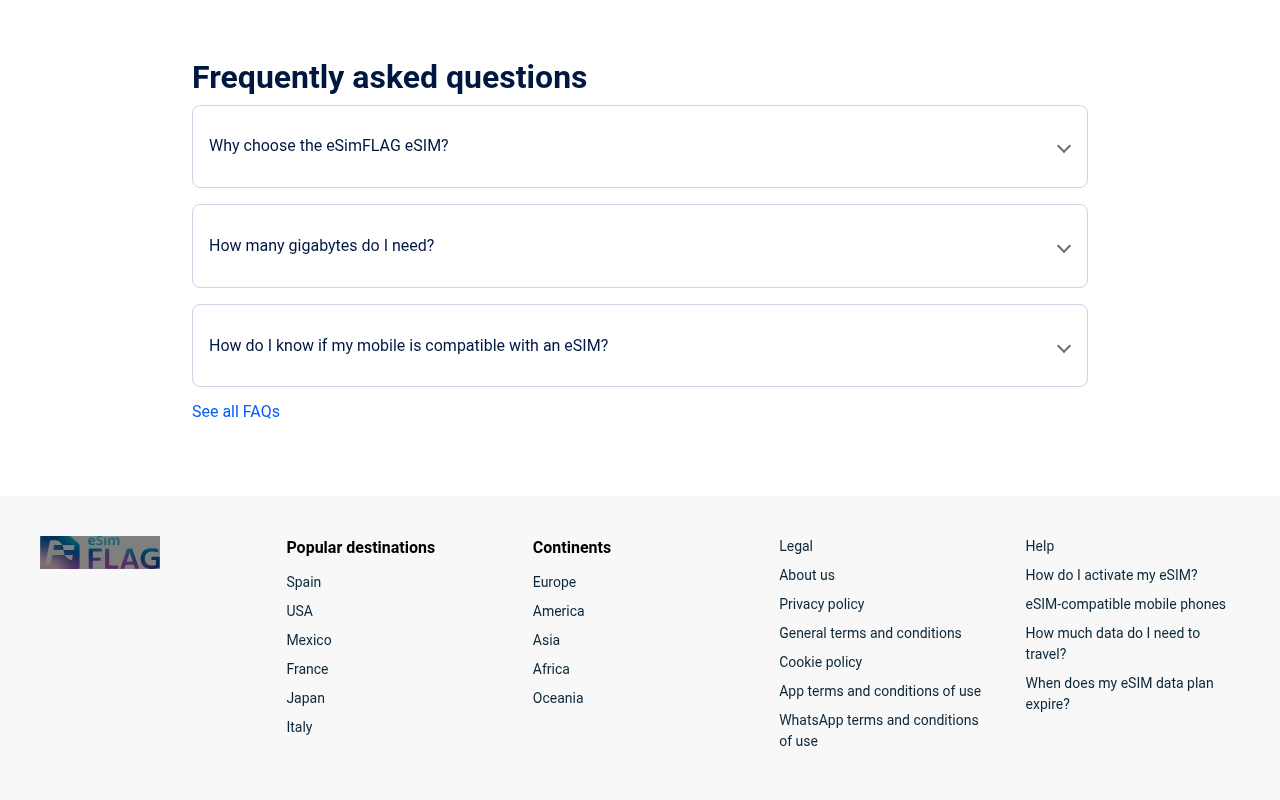
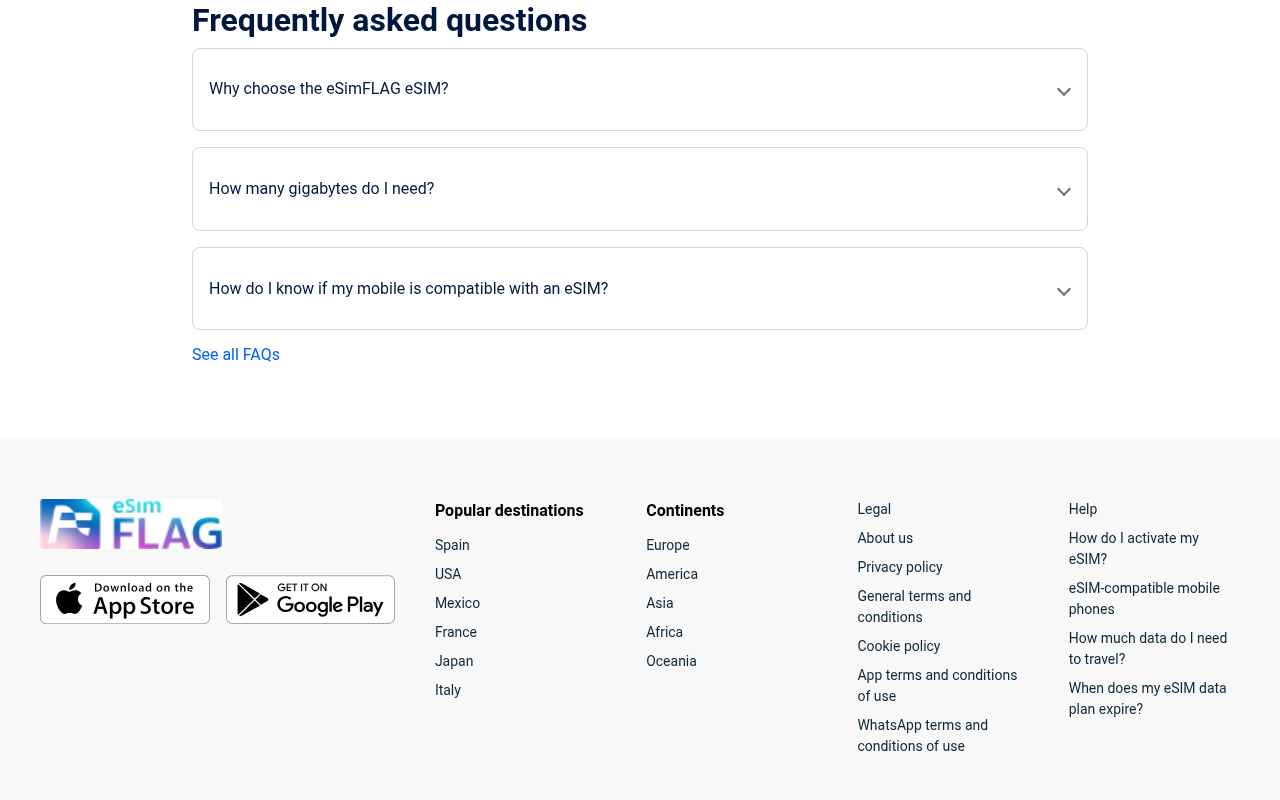
Update 5 files
Automated migration updates generated by Experience Modernization Agent.

Changed files (5):
- footer-updated.png
- footer.html
- footer.md
- footer.plain.html
- header-updated.png

diff --git a/footer.html b/footer.html
@@ -14,13 +14,7 @@
 <body>
 <header></header>
 <main>
-<div>
-<picture><source srcset="/icons/esimflag-logo.png"><source srcset="/icons/esimflag-logo.png" media="(min-width: 600px)"><img src="/icons/esimflag-logo.png" alt="eSimFLAG" loading="lazy"></picture>
-<div class="app-badges">
-<a href="https://apps.apple.com/app/esimflag/id6467063685" target="_blank" rel="noopener noreferrer"><img src="https://www.esimflag.com/assets/app-store-CAMAmrMB.svg" alt="Download on the App Store" loading="lazy"></a>
-<a href="https://play.google.com/store/apps/details?id=com.esimflag" target="_blank" rel="noopener noreferrer"><img src="https://www.esimflag.com/assets/google-play-CsODxu_L.svg" alt="Get it on Google Play" loading="lazy"></a>
-</div>
-</div>
+<div><p><picture><source srcset="/icons/esimflag-logo.png"><source srcset="/icons/esimflag-logo.png" media="(min-width: 600px)"><img src="/icons/esimflag-logo.png" alt="eSimFLAG" loading="lazy"></picture></p><div class="app-badges"><p><a href="https://apps.apple.com/es/app/esimflag/id6744964113"><picture><source srcset="https://www.esimflag.com/assets/app-store-CAMAmrMB.svg"><source srcset="https://www.esimflag.com/assets/app-store-CAMAmrMB.svg" media="(min-width: 600px)"><img src="https://www.esimflag.com/assets/app-store-CAMAmrMB.svg" alt="Download on the App Store" loading="lazy"></picture></a></p><p><a href="https://play.google.com/store/apps/details?id=com.esimflag.apps.android.development&#x26;pcampaignid=web_share"><picture><source srcset="https://www.esimflag.com/assets/google-play-CsODxu_L.svg"><source srcset="https://www.esimflag.com/assets/google-play-CsODxu_L.svg" media="(min-width: 600px)"><img src="https://www.esimflag.com/assets/google-play-CsODxu_L.svg" alt="Get it on Google Play" loading="lazy"></picture></a></p></div></div>
 <div><ul>
 <li><strong>Popular destinations</strong></li>
 <li><a href="https://www.esimflag.com/en/configurator/spain/esim-spain">Spain</a></li>

diff --git a/footer.plain.html b/footer.plain.html
@@ -1,10 +1,4 @@
-<div>
-<picture><source srcset="/icons/esimflag-logo.png"><source srcset="/icons/esimflag-logo.png" media="(min-width: 600px)"><img src="/icons/esimflag-logo.png" alt="eSimFLAG" loading="lazy"></picture>
-<div class="app-badges">
-<a href="https://apps.apple.com/app/esimflag/id6467063685" target="_blank" rel="noopener noreferrer"><img src="https://www.esimflag.com/assets/app-store-CAMAmrMB.svg" alt="Download on the App Store" loading="lazy"></a>
-<a href="https://play.google.com/store/apps/details?id=com.esimflag" target="_blank" rel="noopener noreferrer"><img src="https://www.esimflag.com/assets/google-play-CsODxu_L.svg" alt="Get it on Google Play" loading="lazy"></a>
-</div>
-</div>
+<div><p><picture><source srcset="/icons/esimflag-logo.png"><source srcset="/icons/esimflag-logo.png" media="(min-width: 600px)"><img src="/icons/esimflag-logo.png" alt="eSimFLAG" loading="lazy"></picture></p><div class="app-badges"><p><a href="https://apps.apple.com/es/app/esimflag/id6744964113"><picture><source srcset="https://www.esimflag.com/assets/app-store-CAMAmrMB.svg"><source srcset="https://www.esimflag.com/assets/app-store-CAMAmrMB.svg" media="(min-width: 600px)"><img src="https://www.esimflag.com/assets/app-store-CAMAmrMB.svg" alt="Download on the App Store" loading="lazy"></picture></a></p><p><a href="https://play.google.com/store/apps/details?id=com.esimflag.apps.android.development&#x26;pcampaignid=web_share"><picture><source srcset="https://www.esimflag.com/assets/google-play-CsODxu_L.svg"><source srcset="https://www.esimflag.com/assets/google-play-CsODxu_L.svg" media="(min-width: 600px)"><img src="https://www.esimflag.com/assets/google-play-CsODxu_L.svg" alt="Get it on Google Play" loading="lazy"></picture></a></p></div></div>
 <div><ul>
 <li><strong>Popular destinations</strong></li>
 <li><a href="https://www.esimflag.com/en/configurator/spain/esim-spain">Spain</a></li>

diff --git a/footer.md b/footer.md
@@ -2,9 +2,9 @@
 
 <div class="app-badges">
 
-[![Download on the App Store](https://www.esimflag.com/assets/app-store-CAMAmrMB.svg)](https://apps.apple.com/app/esimflag/id6467063685)
+[![Download on the App Store](https://www.esimflag.com/assets/app-store-CAMAmrMB.svg)](https://apps.apple.com/es/app/esimflag/id6744964113)
 
-[![Get it on Google Play](https://www.esimflag.com/assets/google-play-CsODxu_L.svg)](https://play.google.com/store/apps/details?id=com.esimflag)
+[![Get it on Google Play](https://www.esimflag.com/assets/google-play-CsODxu_L.svg)](https://play.google.com/store/apps/details?id=com.esimflag.apps.android.development&pcampaignid=web_share)
 
 </div>
 
